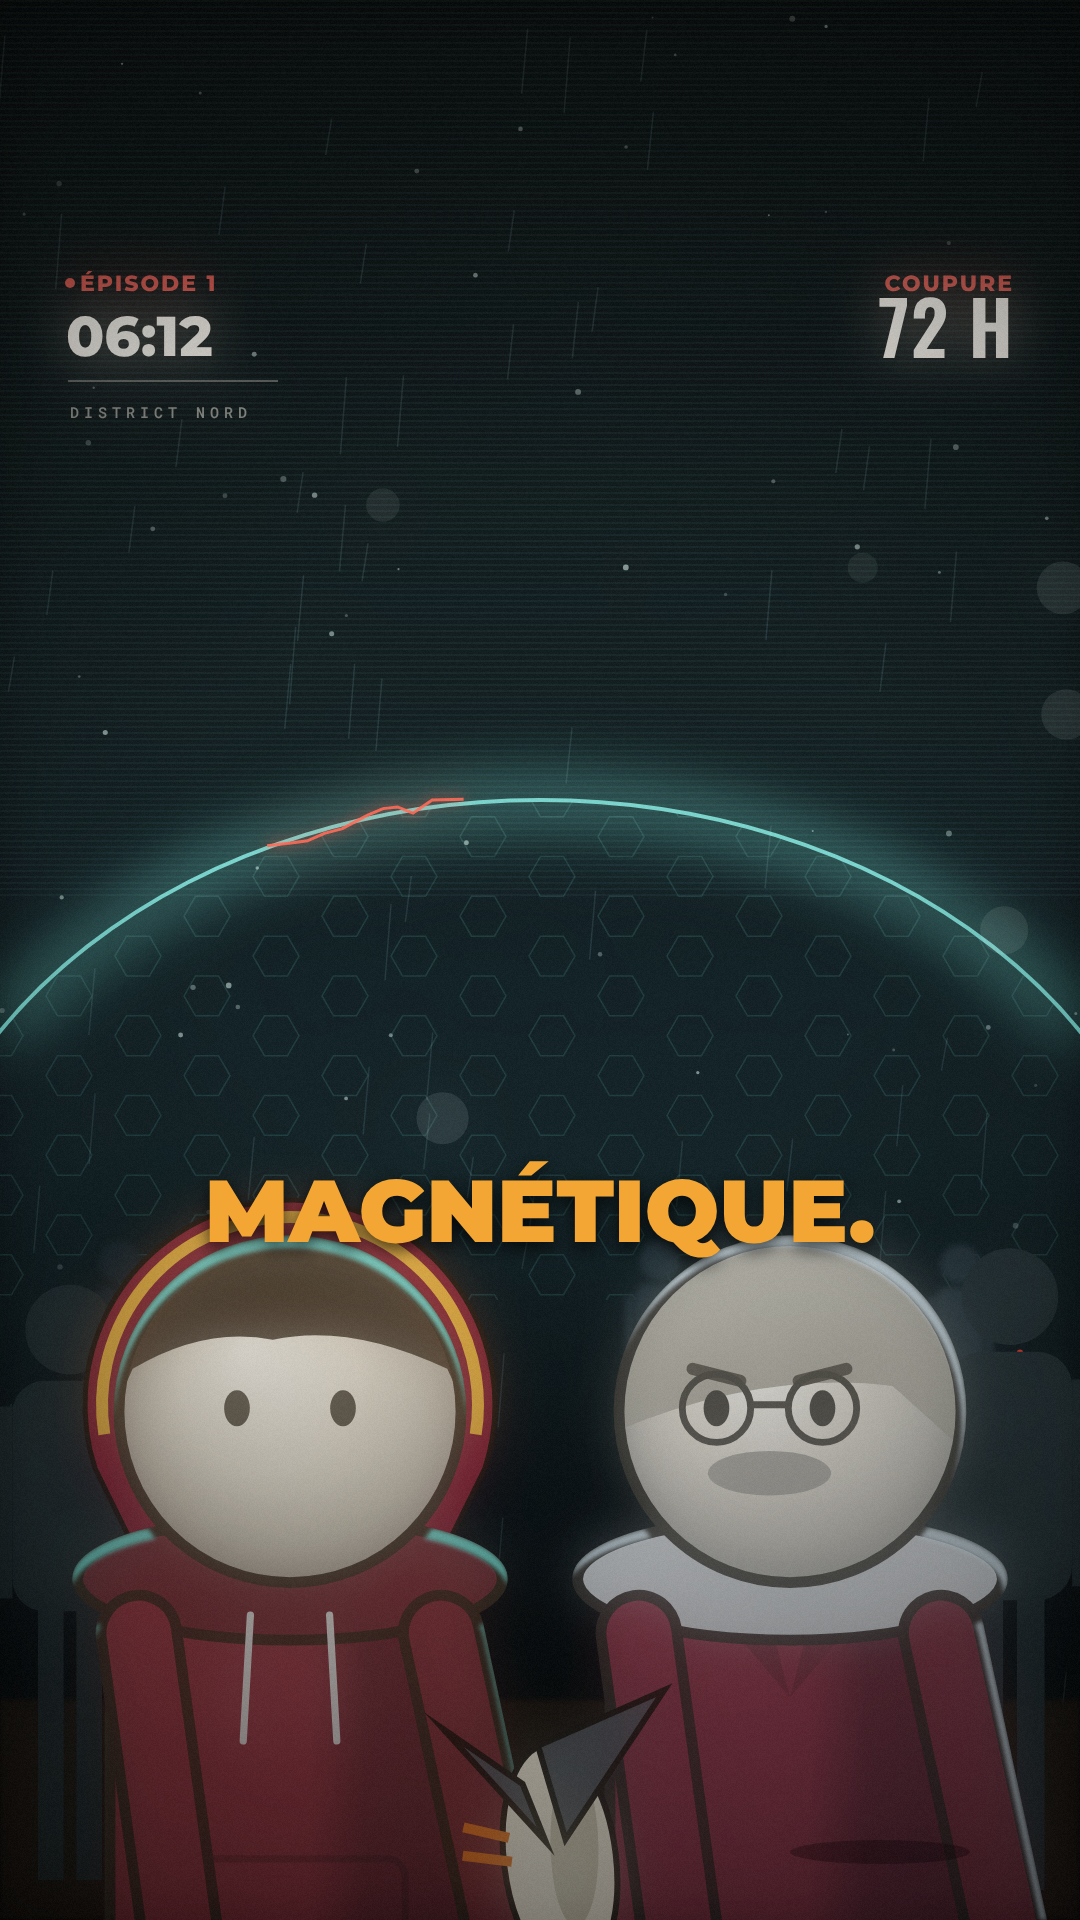
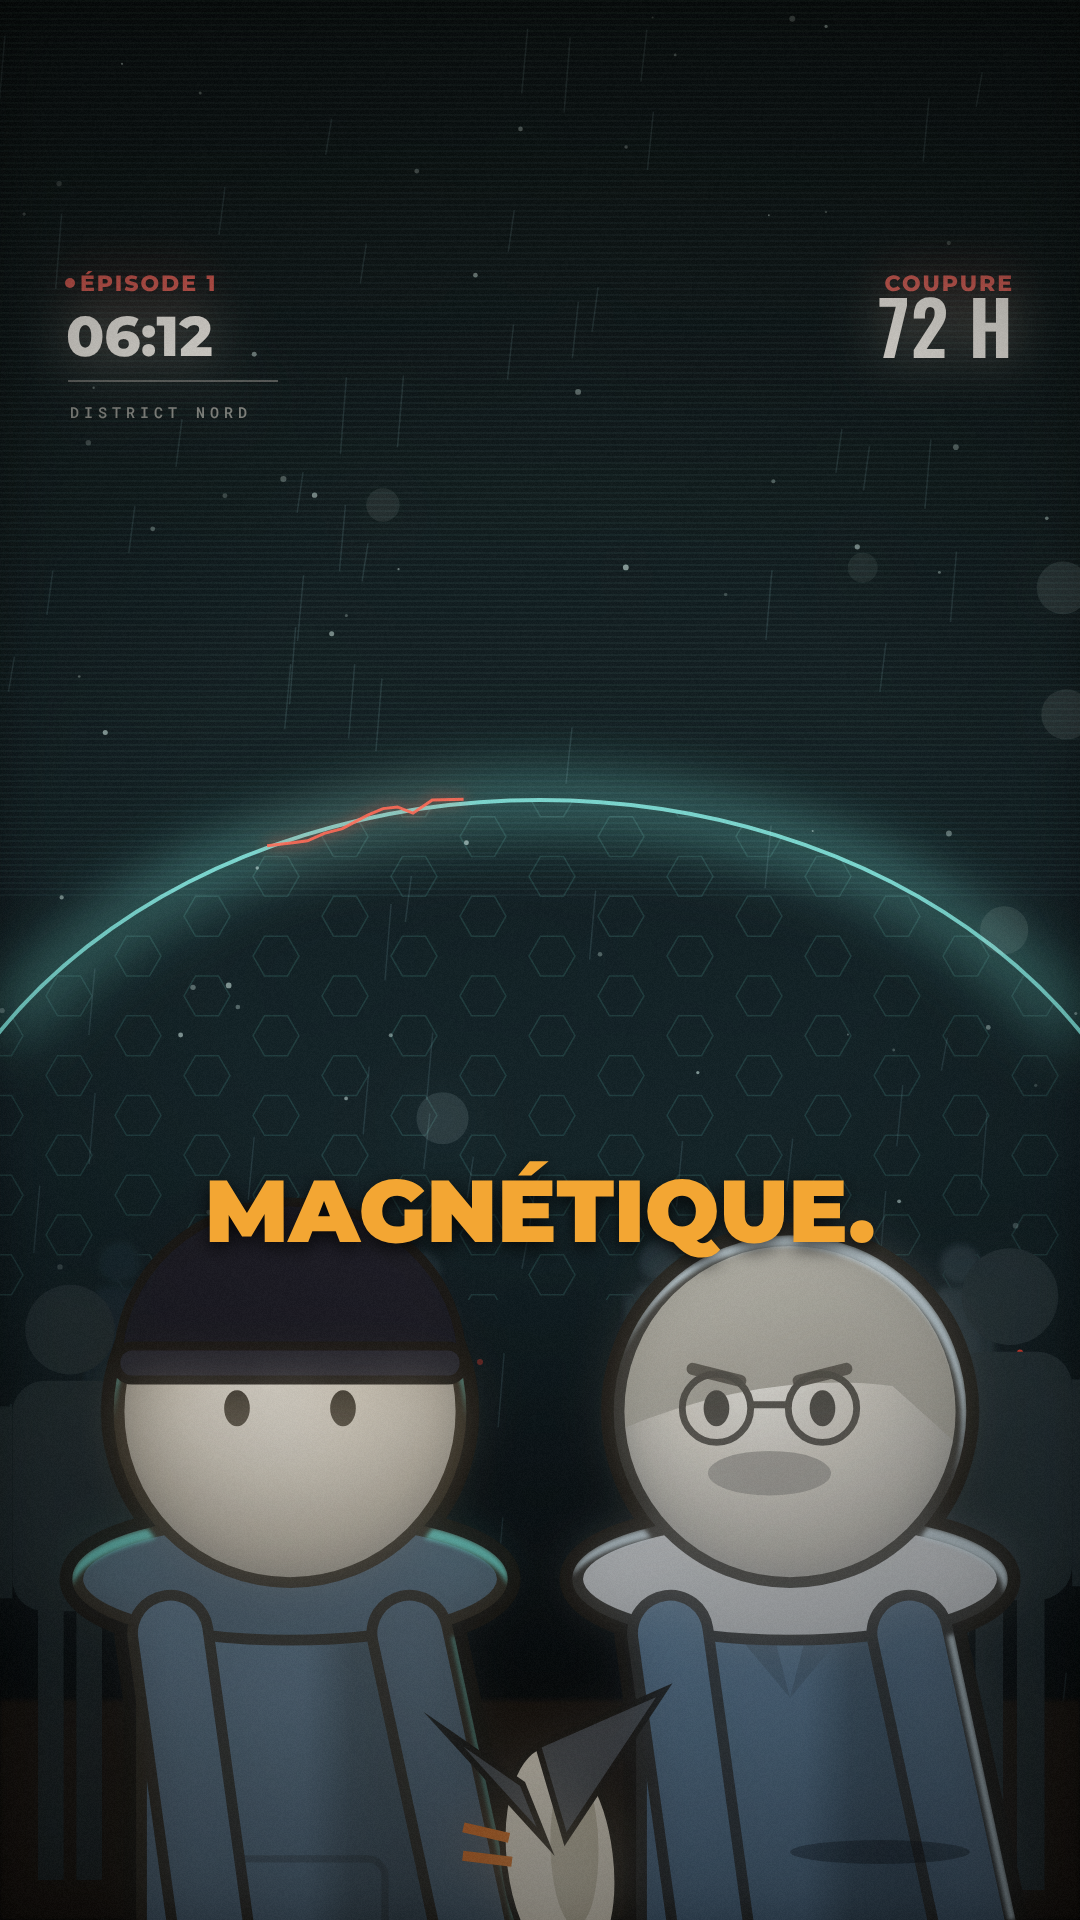
couronne-ep01 : personnages — contour d'encre plus épais (actor), fils en bonnet noir sans capuche, pull bleu pour les deux, buste plus étroit
Claude-Session: https://claude.ai/code/session_0151hKPePi5KPXjL7mUCuxno

diff --git a/productions/couronne-ep01/rendu_v3/scenes.js b/productions/couronne-ep01/rendu_v3/scenes.js
@@ -770,12 +770,12 @@ S.p02h_buste_vivant = g => {                              // image 2 v13
   holoDome(g, 101);
   layer(g, q => { q.fillStyle = "#1b1510"; q.fillRect(0, 1700, W, H - 1700); }, { blur: 2 });
   crowdStanding(g);
-  actor(g, 790, 2650, 1.8, { ...PERE, body: "#7a1f30", bodyDark: "#4a1220", look: -0.12, arms: [[-1, 10], [1, 10]] }, { rim: "#cfe3ee", rimAng: -1.2, rimW: 7, key: "#dfe9ef", shadow: false });   // père, côté droit
-  // capuche relevée du fils, derrière la tête : bordeaux, doublure ocre visible en liseré autour du visage
-  g.fillStyle = "#7a1f30"; g.strokeStyle = INK; g.lineWidth = 5;
-  g.beginPath(); g.arc(290, 1405, 205, Math.PI * 0.9, Math.PI * 2.1); g.lineTo(420, 1600); g.lineTo(160, 1600); g.closePath(); g.fill(); g.stroke();
-  g.strokeStyle = "#d9a33a"; g.lineWidth = 12; g.beginPath(); g.arc(290, 1405, 188, Math.PI * 0.95, Math.PI * 2.05); g.stroke();
-  actor(g, 290, 2650, 1.8, { ...HERO, body: "#7a1f30", bodyDark: "#4a1220", ring: "#5a1826", look: 0.0, arms: [[-1, 10], [1, 10]] }, { rim: TEAL, rimAng: -1.57, rimW: 7, key: "#ffd9a0", shadow: false });
+  actor(g, 790, 2650, 1.8, { ...PERE, body: "#4A6A8A", bodyDark: "#2c4256", torsoW: 165, look: -0.12, arms: [[-1, 10], [1, 10]] }, { rim: "#cfe3ee", rimAng: -1.2, rimW: 7, key: "#dfe9ef", shadow: false });   // père, côté droit
+  actor(g, 290, 2650, 1.8, { ...HERO, body: "#4A6A8A", bodyDark: "#2c4256", strings: false, torsoW: 165, look: 0.0, arms: [[-1, 10], [1, 10]] }, { rim: TEAL, rimAng: -1.57, rimW: 7, key: "#ffd9a0", shadow: false });
+  // bonnet noir du fils (pas de capuche)
+  g.fillStyle = "#17161d"; g.strokeStyle = INK; g.lineWidth = 9;
+  g.beginPath(); g.ellipse(290, 1362, 172, 160, 0, Math.PI, 2 * Math.PI); g.lineTo(462, 1372); g.lineTo(118, 1372); g.closePath(); g.fill(); g.stroke();
+  g.fillStyle = "#24232b"; g.beginPath(); g.roundRect(116, 1346, 348, 34, 16); g.fill(); g.stroke();
   pigeon(g, 540, 1400, 2.8, 1.2, 3);
   pigeon(g, 540, 1400, 2.8, 1.2, 0);
   hud(g); finish(g, { bloom: 0.35, grade: ["#06202a", "#ffd9a0", 0.16] }); caption(g, ["SOUS", "UN", "DÔME"], 1);
@@ -786,13 +786,13 @@ S.p02i_sol_vivant = g => {                                // image 3 v13
   holoDome(g, 103);
   layer(g, q => { q.fillStyle = "#1b1510"; q.fillRect(0, 1700, W, H - 1700); }, { blur: 2 });
   crowdStanding(g);
-  actor(g, 790, 2650, 1.8, { ...PERE, body: "#7a1f30", bodyDark: "#4a1220", look: -0.12, arms: [[-1, 10], [1, 10]] }, { rim: "#cfe3ee", rimAng: -1.2, rimW: 7, key: "#dfe9ef", shadow: false });   // père, côté droit
-  // capuche relevée du fils, derrière la tête : bordeaux, doublure ocre visible en liseré autour du visage
-  g.fillStyle = "#7a1f30"; g.strokeStyle = INK; g.lineWidth = 5;
-  g.beginPath(); g.arc(290, 1405, 205, Math.PI * 0.9, Math.PI * 2.1); g.lineTo(420, 1600); g.lineTo(160, 1600); g.closePath(); g.fill(); g.stroke();
-  g.strokeStyle = "#d9a33a"; g.lineWidth = 12; g.beginPath(); g.arc(290, 1405, 188, Math.PI * 0.95, Math.PI * 2.05); g.stroke();
-  actor(g, 290, 2650, 1.8, { ...HERO, body: "#7a1f30", bodyDark: "#4a1220", ring: "#5a1826", look: 0.0, arms: [[-1, 10], [1, 10]] }, { rim: TEAL, rimAng: -1.57, rimW: 7, key: "#ffd9a0", shadow: false });
+  actor(g, 790, 2650, 1.8, { ...PERE, body: "#4A6A8A", bodyDark: "#2c4256", torsoW: 165, look: -0.12, arms: [[-1, 10], [1, 10]] }, { rim: "#cfe3ee", rimAng: -1.2, rimW: 7, key: "#dfe9ef", shadow: false });   // père, côté droit
+  actor(g, 290, 2650, 1.8, { ...HERO, body: "#4A6A8A", bodyDark: "#2c4256", strings: false, torsoW: 165, look: 0.0, arms: [[-1, 10], [1, 10]] }, { rim: TEAL, rimAng: -1.57, rimW: 7, key: "#ffd9a0", shadow: false });
   g.fillStyle = "rgba(0,0,0,0.4)"; g.beginPath(); g.ellipse(880, 1852, 90, 12, 0, 0, 7); g.fill();
+  // bonnet noir du fils (pas de capuche)
+  g.fillStyle = "#17161d"; g.strokeStyle = INK; g.lineWidth = 9;
+  g.beginPath(); g.ellipse(290, 1362, 172, 160, 0, Math.PI, 2 * Math.PI); g.lineTo(462, 1372); g.lineTo(118, 1372); g.closePath(); g.fill(); g.stroke();
+  g.fillStyle = "#24232b"; g.beginPath(); g.roundRect(116, 1346, 348, 34, 16); g.fill(); g.stroke();
   pigeon(g, 560, 1860, 2.0, 1.45, 0);
   hud(g); finish(g, { bloom: 0.35, grade: ["#06202a", "#ffd9a0", 0.16] }); caption(g, ["MAGNÉTIQUE."], 0);
 };

diff --git a/productions/couronne-ep01/rendu_v3/fx.js b/productions/couronne-ep01/rendu_v3/fx.js
@@ -36,6 +36,11 @@ function actor(g, x, F, s, outfit, o = {}) {
     const q2 = c.getContext("2d"); q2.save(); q2.globalCompositeOperation = "source-atop"; q2.filter = "blur(2px)"; q2.globalAlpha = o.rimA ?? 0.85; q2.drawImage(m, 0, 0); q2.restore();
   }
   if (o.shadow !== false) { g.save(); g.filter = "blur(14px)"; g.fillStyle = "rgba(0,0,0,0.55)"; g.beginPath(); g.ellipse(x + (o.shDx || 0), F + 4, 150 * s, 26 * s, 0, 0, 7); g.fill(); g.restore(); }
+  // contour d'encre épais et régulier autour de la silhouette (dilatation du masque, réglable par o.ink en unités de scale)
+  if (o.ink !== 0) { const ol = mk(W, H), oq = ol.getContext("2d"), w = (o.ink ?? 7) * s;
+    for (let k = 0; k < 24; k++) { const an = k / 24 * 6.2832; oq.drawImage(c, Math.cos(an) * w, Math.sin(an) * w); }
+    oq.globalCompositeOperation = "source-in"; oq.fillStyle = INK; oq.fillRect(0, 0, W, H);
+    g.save(); if (o.blur) g.filter = `blur(${o.blur}px)`; g.drawImage(ol, 0, 0); g.restore(); }
   g.save(); if (o.blur) g.filter = `blur(${o.blur}px)`; g.drawImage(c, 0, 0); g.restore();
 }
 // décor du dôme
